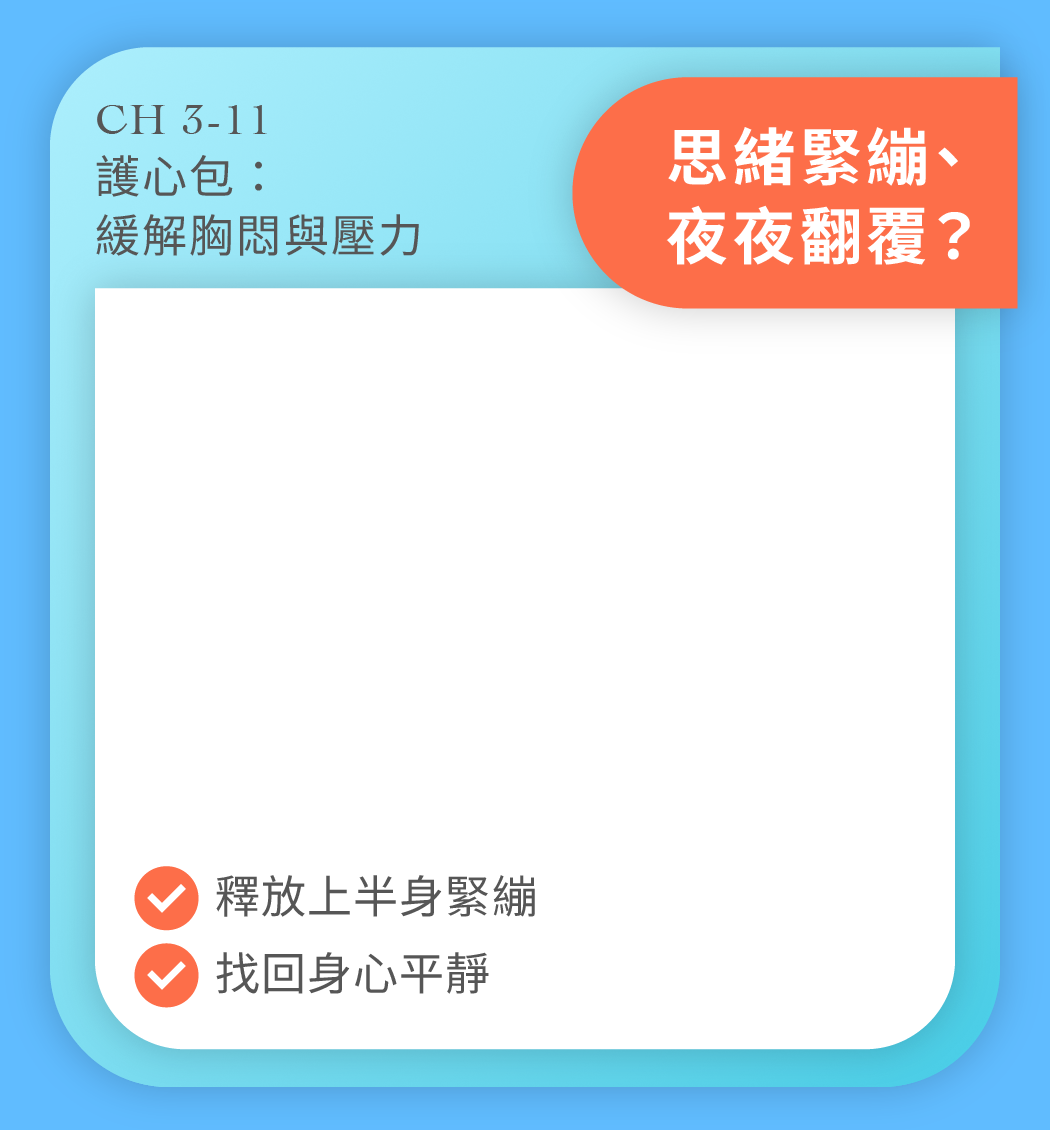
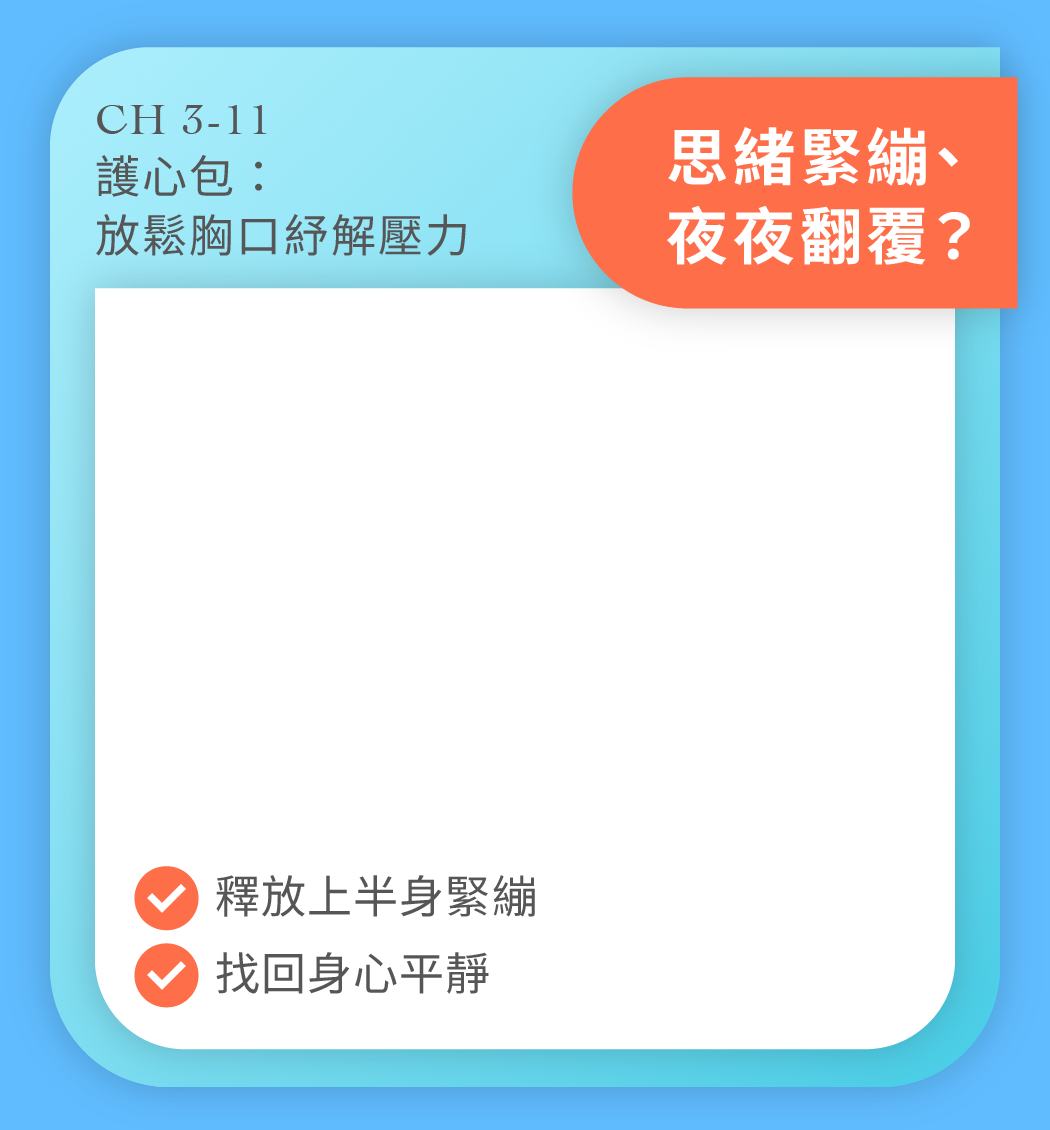
圖檔更新

Changed region(s): [[0.2133, 0.1858, 0.4571, 0.2478], [0.0914, 0.1858, 0.1829, 0.2478]]

diff --git a/202606_ch/index.html b/202606_ch/index.html
@@ -180,11 +180,11 @@
         <img src="https://assets.backme.tw/uploads/ckeditor/pictures/115418/content_0727new_c1-2a.gif" class="gif">
       </div>
       <div class="card">
-        <img src="https://assets.backme.tw/uploads/ckeditor/pictures/115423/content_0727new_c1-2b-v2.png" class="bg">
+        <img src="0727/0727new_c1-2b-v2.png" class="bg">
         <img src="https://assets.backme.tw/uploads/ckeditor/pictures/115419/content_0727new_c1-2b.gif" class="gif">
       </div>
       <div class="card">
-        <img src="https://assets.backme.tw/uploads/ckeditor/pictures/115422/content_0727new_c1-2c-v2.png" class="bg">
+        <img src="0727/0727new_c1-2c-v2.png" class="bg">
         <img src="https://assets.backme.tw/uploads/ckeditor/pictures/115417/content_0727new_c1-2c.gif" class="gif">
       </div>
     </div>

diff --git a/202606_ch/ch_slide.html b/202606_ch/ch_slide.html
@@ -97,11 +97,11 @@
     <img src="https://assets.backme.tw/uploads/ckeditor/pictures/115418/content_0727new_c1-2a.gif" class="gif">
   </div>
   <div class="card">
-    <img src="https://assets.backme.tw/uploads/ckeditor/pictures/115423/content_0727new_c1-2b-v2.png" class="bg">
+    <img src="0727/0727new_c1-2b-v2.png" class="bg">
     <img src="https://assets.backme.tw/uploads/ckeditor/pictures/115419/content_0727new_c1-2b.gif" class="gif">
   </div>
   <div class="card">
-    <img src="https://assets.backme.tw/uploads/ckeditor/pictures/115422/content_0727new_c1-2c-v2.png" class="bg">
+    <img src="0727/0727new_c1-2c-v2.png" class="bg">
     <img src="https://assets.backme.tw/uploads/ckeditor/pictures/115417/content_0727new_c1-2c.gif" class="gif">
   </div>
 </div>
